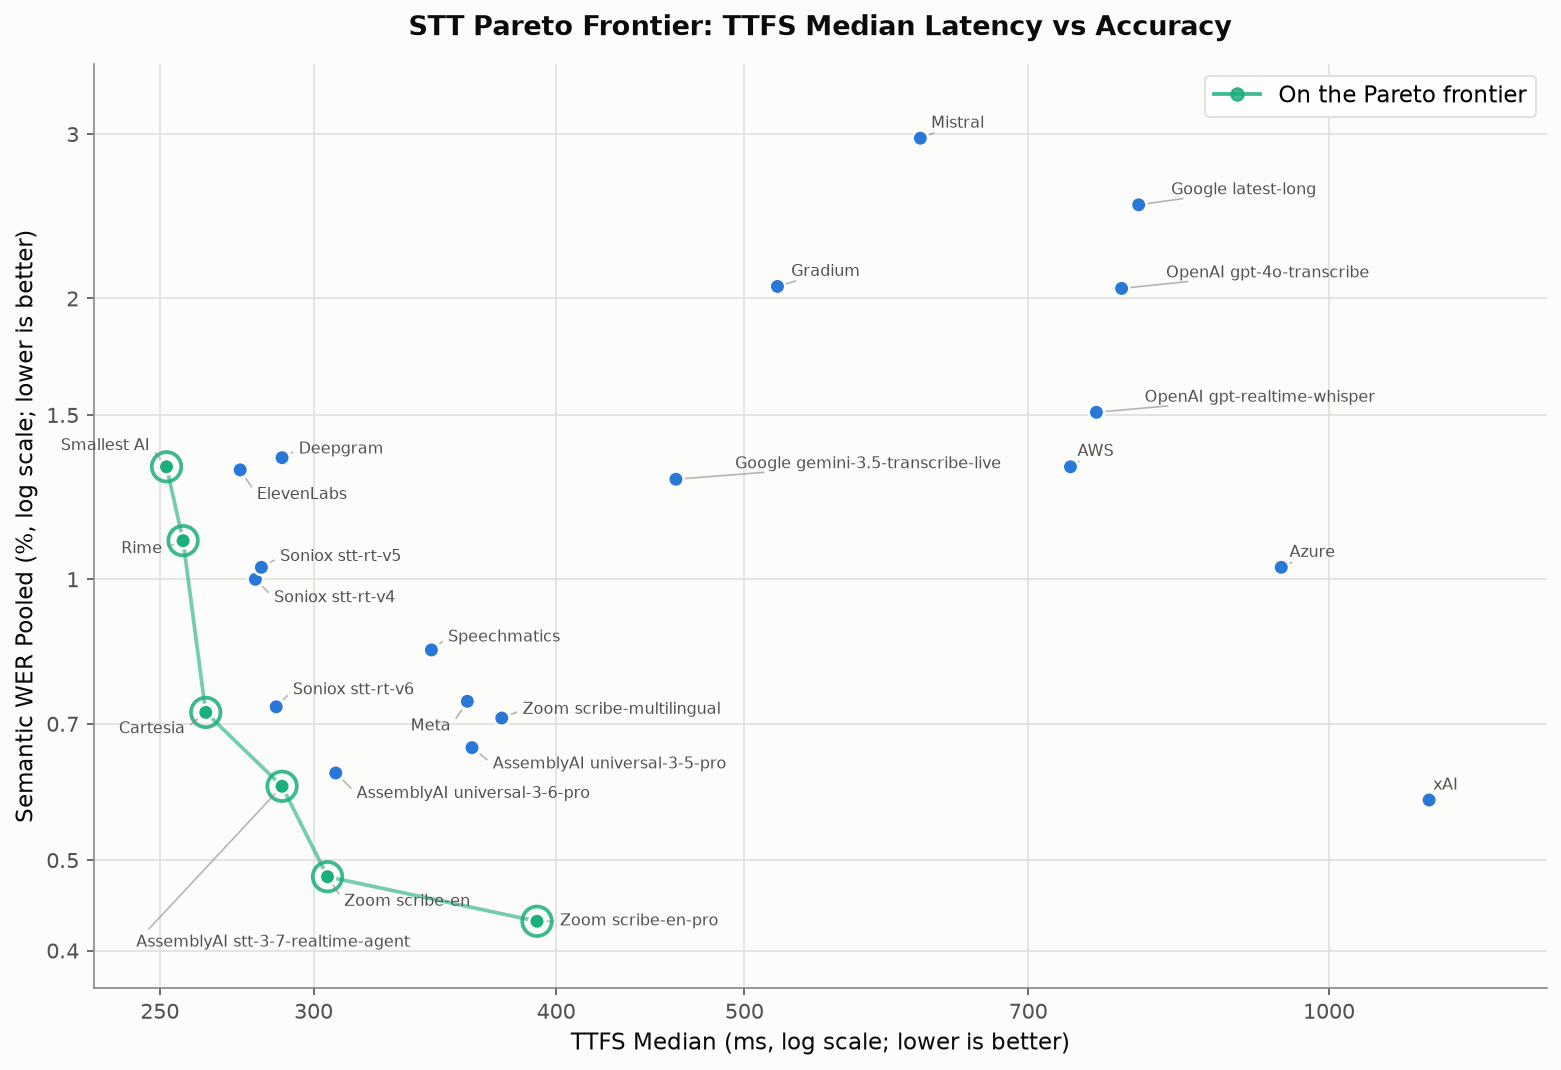
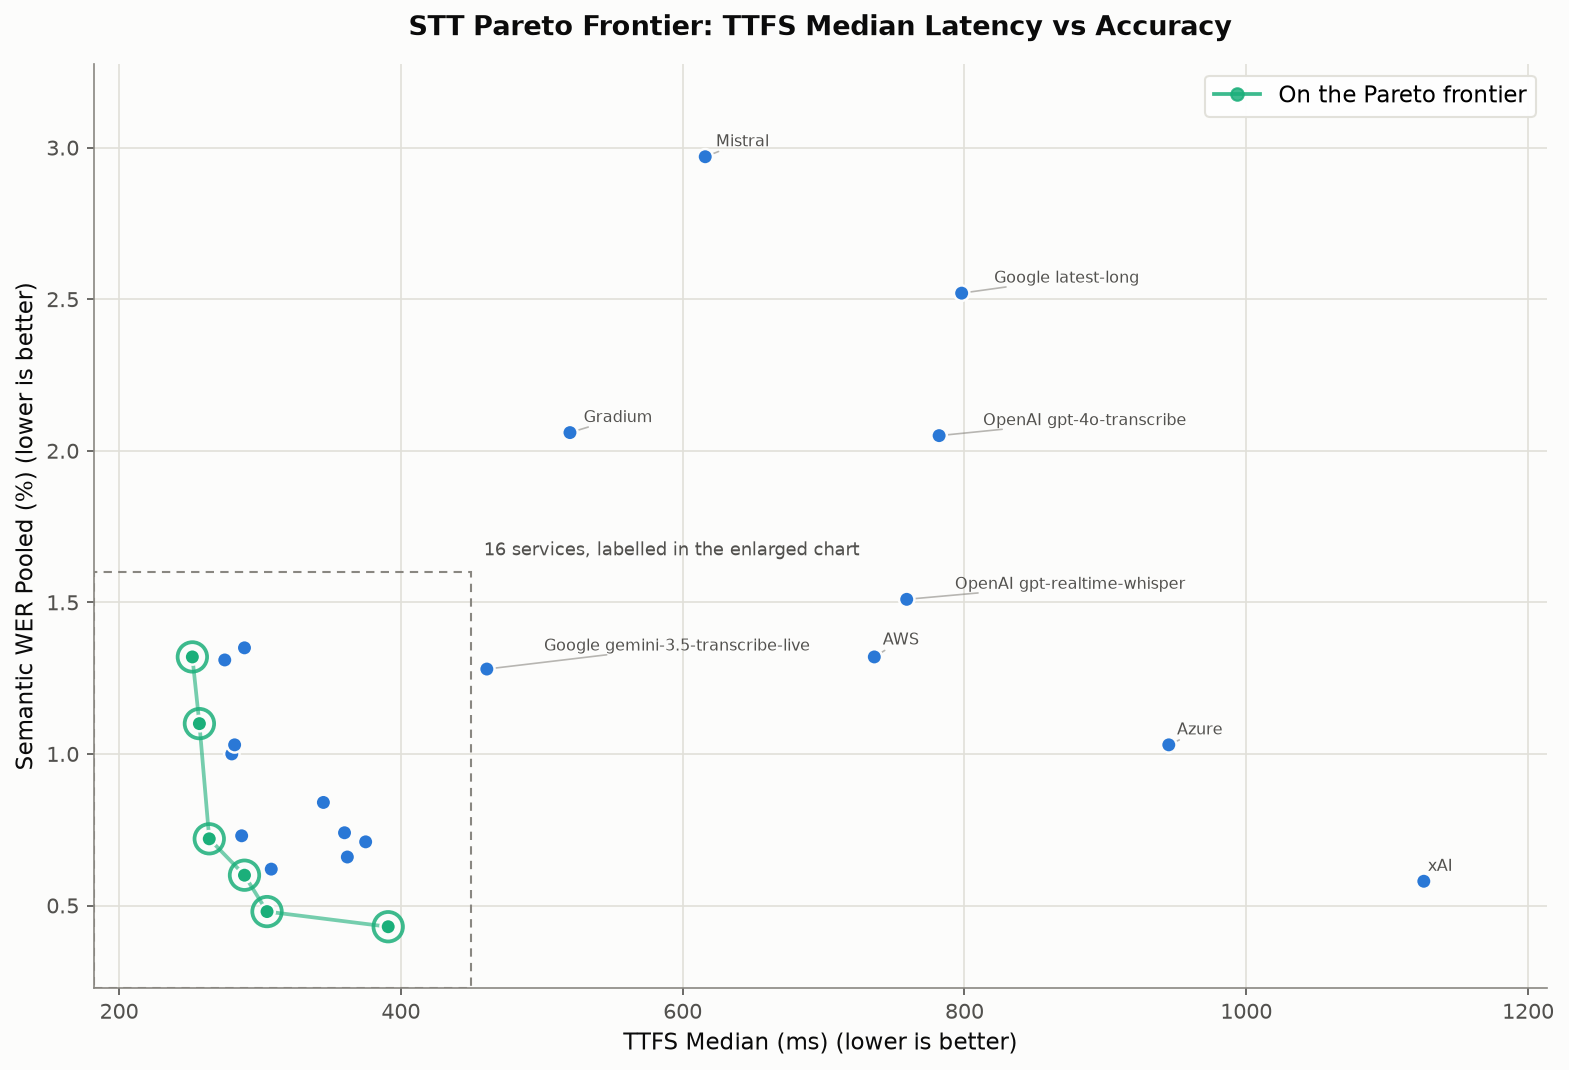
Go back to linear axes, with a second chart enlarging the busy corner
Log axes are harder to read. The median chart keeps linear axes and
every service, outlines the fast, accurate corner and leaves it
unlabelled; a second chart enlarges that corner, where 16 of the 25
services sit.

diff --git a/scripts/pareto-frontier-plot.py b/scripts/pareto-frontier-plot.py
@@ -45,29 +45,18 @@ RANGE_P99 = "#86b6ef"
 # placement (adjustText). Override per-metric via the "label_offsets"
 # config key.
 DEFAULT_LABEL_OFFSETS = {
-    "median": {
-        "Smallest AI": (-8, 10, "right"),
-        "Rime": (-10, -4, "right"),
-        "Cartesia": (-10, -8, "right"),
-        "Deepgram": (8, 4, "left"),
-        "ElevenLabs": (8, -12, "left"),
-        "Soniox stt-rt-v4": (9, -9, "left"),
-        "Soniox stt-rt-v5": (9, 5, "left"),
-        "Soniox stt-rt-v6": (8, 8, "left"),
-        "AssemblyAI stt-3-7-realtime-agent": (-70, -75, "left"),
-        "AssemblyAI universal-3-5-pro": (10, -8, "left"),
-        "AssemblyAI universal-3-6-pro": (10, -10, "left"),
-        "Speechmatics": (8, 6, "left"),
-        "Meta": (-8, -12, "right"),
-        "Zoom scribe-en": (8, -12, "left"),
-        "Zoom scribe-en-pro": (11, 0, "left"),
-        "Zoom scribe-multilingual": (10, 4, "left"),
+    "median": {},
+    "median_corner": {
+        "AssemblyAI stt-3-7-realtime-agent": (-9, -12, "right"),
+        "Zoom scribe-en-pro": (-9, 12, "right"),
     },
 }
 
-# Round values the log axes may label; the ones inside a chart's limits are used.
-LATENCY_TICKS = (100, 150, 200, 250, 300, 400, 500, 700, 1000, 1500, 2000, 3000, 5000)
-WER_TICKS = (0.1, 0.2, 0.3, 0.4, 0.5, 0.7, 1, 1.5, 2, 3, 5, 7, 10, 15, 20)
+# Most services sit in the fast, accurate corner, where their labels would
+# overlap on a chart that also has to fit the slowest and least accurate. The
+# median chart leaves that corner unlabelled and a second chart enlarges it:
+# services at or under this median TTFS (ms) and pooled WER (%).
+DEFAULT_CORNER = (450, 1.6)
 
 
 def find_pareto_optimal(names: list, ttfb_values: list, wer_values: list) -> list:
@@ -93,13 +82,20 @@ def plot_pareto_frontier(
     output_path: str = "stt_pareto_frontier.png",
     show: bool = False,
     label_offsets: dict | None = None,
+    corner: tuple[float, float] | None = None,
+    corner_only: bool = False,
 ):
-    """Generate the TTFS vs WER scatter plot with the Pareto frontier highlighted."""
+    """Generate the TTFS vs WER scatter plot with the Pareto frontier highlighted.
+
+    ``corner`` is a (TTFS ms, WER %) limit. With ``corner_only`` the chart shows
+    just the services inside it, enlarged. Without, it shows every service,
+    outlines the corner and leaves the services inside it unlabelled.
+    """
     try:
         import matplotlib.pyplot as plt
         from adjustText import adjust_text
         from matplotlib.lines import Line2D
-        from matplotlib.ticker import FixedLocator, FuncFormatter, NullLocator
+        from matplotlib.patches import Rectangle
     except ImportError as e:
         if "adjustText" in str(e):
             print("adjustText is required for plotting. Install with: uv add adjustText")
@@ -111,12 +107,33 @@ def plot_pareto_frontier(
     ttfb_key = metric_info["key"]
     ttfb_label = metric_info["label"]
     if label_offsets is None:
-        label_offsets = DEFAULT_LABEL_OFFSETS.get(latency_metric, {})
+        key = f"{latency_metric}_corner" if corner_only else latency_metric
+        label_offsets = DEFAULT_LABEL_OFFSETS.get(key, {})
 
-    names = list(data)
+    def in_corner(name: str) -> bool:
+        return (
+            corner is not None
+            and data[name][ttfb_key] <= corner[0]
+            and data[name]["pooled_wer"] <= corner[1]
+        )
+
+    # The frontier is always worked out over every service, so a service is
+    # on it in the enlarged chart only if it is on it overall.
+    everyone = list(data)
+    pareto_optimal = find_pareto_optimal(
+        everyone,
+        [data[n][ttfb_key] for n in everyone],
+        [data[n]["pooled_wer"] for n in everyone],
+    )
+    names = [n for n in everyone if in_corner(n)] if corner_only else everyone
+    if not names:
+        print("No services inside the corner. Nothing to plot.")
+        return
     ttfb_values = [data[n][ttfb_key] for n in names]
     wer_values = [data[n]["pooled_wer"] for n in names]
-    pareto_optimal = find_pareto_optimal(names, ttfb_values, wer_values)
+    if corner_only:
+        pareto_optimal = [p for p in pareto_optimal if in_corner(p[0])]
+    unlabelled = {n for n in names if in_corner(n)} if corner and not corner_only else set()
 
     fig, ax = plt.subplots(figsize=(12.5, 8), dpi=150)
     fig.patch.set_facecolor(SURFACE)
@@ -183,6 +200,8 @@ def plot_pareto_frontier(
     leader_line = {"arrowstyle": "-", "color": MUTED, "alpha": 0.6, "lw": 0.8}
     texts = []
     for name, ttfb, wer in zip(names, ttfb_values, wer_values, strict=False):
+        if name in unlabelled:
+            continue
         if name in label_offsets:
             dx, dy, ha = label_offsets[name]
             ax.annotate(
@@ -206,23 +225,39 @@ def plot_pareto_frontier(
         else:
             texts.append(ax.text(ttfb, wer, name, fontsize=7.5, color=INK_2, zorder=6))
 
-    # Log axes: most services sit in one corner, and a gap of 30 ms or 0.2
-    # points matters more there than among the slow or inaccurate ones.
-    # Limits pad around the data by a ratio, and the ticks are round values
-    # labelled in plain numbers.
-    ax.set_xscale("log")
-    ax.set_yscale("log")
-    x_low, x_high = min(ttfb_values) / 1.09, max(ttfb_values) * 1.15
-    y_low, y_high = min(wer_values) / 1.18, max(wer_values) * 1.2
-    ax.set_xlim(x_low, x_high)
-    ax.set_ylim(y_low, y_high)
-    for axis, ticks, low, high in (
-        (ax.xaxis, LATENCY_TICKS, x_low, x_high),
-        (ax.yaxis, WER_TICKS, y_low, y_high),
-    ):
-        axis.set_major_locator(FixedLocator([t for t in ticks if low <= t <= high]))
-        axis.set_minor_locator(NullLocator())
-        axis.set_major_formatter(FuncFormatter(lambda value, _: f"{value:g}"))
+    # Axis limits: pad around the data instead of forcing a zero origin,
+    # so dense regions keep their resolution.
+    x_range = max(ttfb_values) - min(ttfb_values) or max(ttfb_values) * 0.2 or 1
+    y_range = max(wer_values) - min(wer_values) or max(wer_values) * 0.2 or 1
+    x_low = min(ttfb_values) - 0.08 * x_range
+    y_low = min(wer_values) - 0.08 * y_range
+    ax.set_xlim(x_low, max(ttfb_values) + 0.10 * x_range)
+    ax.set_ylim(y_low, max(wer_values) + 0.12 * y_range)
+
+    # Outline the corner the enlarged chart covers, and say where its labels are.
+    if unlabelled:
+        ax.add_patch(
+            Rectangle(
+                (x_low, y_low),
+                corner[0] - x_low,
+                corner[1] - y_low,
+                fill=False,
+                edgecolor=MUTED,
+                linestyle=(0, (4, 3)),
+                linewidth=1,
+                zorder=2,
+            )
+        )
+        ax.annotate(
+            f"{len(unlabelled)} services, labelled in the enlarged chart",
+            (corner[0], corner[1]),
+            xytext=(6, 6),
+            textcoords="offset points",
+            ha="left",
+            va="bottom",
+            fontsize=8.5,
+            color=INK_2,
+        )
 
     # Recessive chrome: hairline grid, no top/right spines, muted ticks.
     ax.grid(True, color=GRID, linewidth=0.8, zorder=0)
@@ -233,10 +268,13 @@ def plot_pareto_frontier(
         ax.spines[side].set_color(MUTED)
     ax.tick_params(colors=INK_2, labelsize=10)
 
-    ax.set_xlabel(f"{ttfb_label} (ms, log scale; lower is better)", fontsize=11, color=INK)
-    ax.set_ylabel("Semantic WER Pooled (%, log scale; lower is better)", fontsize=11, color=INK)
+    ax.set_xlabel(f"{ttfb_label} (ms) (lower is better)", fontsize=11, color=INK)
+    ax.set_ylabel("Semantic WER Pooled (%) (lower is better)", fontsize=11, color=INK)
+    title = f"STT Pareto Frontier: {ttfb_label} Latency vs Accuracy"
+    if corner_only:
+        title += f"\nServices at or under {corner[0]:g} ms and {corner[1]:g}% WER"
     ax.set_title(
-        f"STT Pareto Frontier: {ttfb_label} Latency vs Accuracy",
+        title,
         fontsize=13,
         fontweight="bold",
         color=INK,
@@ -595,6 +633,27 @@ def main():
     services = args.services or file_config.get("services", None)
     display_names = file_config.get("display_names", {})
     label_offsets_cfg = file_config.get("label_offsets", {})
+    corner = file_config.get("corner", DEFAULT_CORNER)
+    corner = tuple(corner) if corner else None
+
+    def render_pareto(metric: str, plot_output: Path) -> None:
+        """Draw one metric's chart, and for the median the enlarged corner beside it."""
+        # The corner is defined on the median, so only that chart has one.
+        metric_corner = corner if metric == "median" else None
+        plot_pareto_frontier(
+            data, metric, str(plot_output), show, label_offsets_cfg.get(metric), metric_corner
+        )
+        if metric_corner:
+            plot_pareto_frontier(
+                data,
+                metric,
+                str(plot_output.with_name(f"{plot_output.stem}_corner{plot_output.suffix}")),
+                show,
+                label_offsets_cfg.get(f"{metric}_corner"),
+                metric_corner,
+                corner_only=True,
+            )
+
     show = args.show if args.show is not None else file_config.get("show", False)
 
     # The README results table is the single source of truth for the published
@@ -657,9 +716,7 @@ def main():
                 suffix = LATENCY_METRICS[metric]["suffix"]
                 plot_output = output_path / f"{default_basename}{suffix}.png"
                 print(f"\nGenerating {LATENCY_METRICS[metric]['label']} plot...")
-                plot_pareto_frontier(
-                    data, metric, str(plot_output), show, label_offsets_cfg.get(metric)
-                )
+                render_pareto(metric, Path(plot_output))
         else:
             for metric in metrics_to_plot:
                 suffix = LATENCY_METRICS[metric]["suffix"]
@@ -670,9 +727,7 @@ def main():
                 else:
                     plot_output = output_path
                 print(f"\nGenerating {LATENCY_METRICS[metric]['label']} plot...")
-                plot_pareto_frontier(
-                    data, metric, str(plot_output), show, label_offsets_cfg.get(metric)
-                )
+                render_pareto(metric, Path(plot_output))
 
     if "range" in charts:
         # The range chart has a fixed basename; with a file-path output it

diff --git a/scripts/snapshot_results.py b/scripts/snapshot_results.py
@@ -5,7 +5,7 @@ The README shows the latest results. This copies them into ``results/<label>/``:
 
     summary.csv            one row per service, the README table's numbers
     run.json               how the results were measured
-    stt_pareto_frontier.png, stt_latency_range.png
+    stt_pareto_frontier.png, stt_pareto_frontier_corner.png, stt_latency_range.png
 
 and rewrites ``results/history.csv``, which holds every snapshot's rows in one
 file. Run it after ``stt-benchmark update-readme`` and
@@ -50,7 +50,7 @@ COLUMNS = {
     "ttfs_p95_ms": "ttfb_p95",
     "ttfs_p99_ms": "ttfb_p99",
 }
-PLOTS = ("stt_pareto_frontier.png", "stt_latency_range.png")
+PLOTS = ("stt_pareto_frontier.png", "stt_pareto_frontier_corner.png", "stt_latency_range.png")
 
 
 def judge_label() -> str:

diff --git a/README.md b/README.md
@@ -68,11 +68,13 @@ Each service runs with the settings its Pipecat integration uses by default. Sev
 
 ![STT Service Pareto Frontier - Median](assets/stt_pareto_frontier.png)
 
-The Pareto frontier shows services that offer the best trade-off between latency and accuracy—no other service is better on both metrics. Services on the frontier represent efficient choices depending on your priorities. They are drawn in green and joined by a line; a blue point is not on the frontier, however close it sits to one that is.
+Most services sit in the fast, accurate corner, outlined above. The chart below enlarges it:
+
+![STT Service Pareto Frontier - Median, services at or under 450 ms and 1.6% WER](assets/stt_pareto_frontier_corner.png)
+
+The Pareto frontier shows services that offer the best trade-off between latency and accuracy—no other service is better on both metrics. Services on the frontier represent efficient choices depending on your priorities. They are drawn in green and joined by a line; a blue point is not on the frontier, however close it sits to one that is. The frontier is worked out over every service, so it is the same in both charts.
 
 Each point is a service's pooled WER. Points close together on either axis may not differ meaningfully; see the notes under the [results table](#results-summary).
-
-Both axes are logarithmic, so that the services in the fast, accurate corner can be told apart. Equal distances on the chart are equal ratios, not equal differences: read the values from the axis labels or the table.
 
 ### Latency Consistency
 
@@ -106,7 +108,7 @@ The table and charts above are the latest results. Each full run is also kept as
 |----------|----------|------|----------|
 | [2026-11](results/2026-11/) | 23–26 November 2026 | AWS `us-west-2` | 25 |
 
-Each snapshot folder holds `summary.csv` (the table's numbers), `run.json` (region, Pipecat version, benchmark commit, judge and caveats), and the two charts. [`results/history.csv`](results/history.csv) holds every snapshot's rows in one file. Compare snapshots with their `run.json` in hand: a change in region, Pipecat version or judge moves the numbers on its own.
+Each snapshot folder holds `summary.csv` (the table's numbers), `run.json` (region, Pipecat version, benchmark commit, judge and caveats), and the charts. [`results/history.csv`](results/history.csv) holds every snapshot's rows in one file. Compare snapshots with their `run.json` in hand: a change in region, Pipecat version or judge moves the numbers on its own.
 
 Results published before the first snapshot were measured over several months, from more than one location and with two judges, so they are not kept as a snapshot; they remain in the git history. Five rows from that table were not carried over: AssemblyAI universal-streaming-english, Cartesia ink-whisper and the earlier Speechmatics model have been superseded, and the two NVIDIA Nemotron models run locally and were not re-measured.
 

diff --git a/scripts/README.md b/scripts/README.md
@@ -2,7 +2,7 @@
 
 ## Pareto Frontier Plot
 
-`pareto-frontier-plot.py` generates the README's latency/accuracy charts: scatter plots of TTFS latency vs Semantic WER on log axes with a Pareto frontier overlay, and a per-service latency distribution (median/P95/P99) chart.
+`pareto-frontier-plot.py` generates the README's latency/accuracy charts: scatter plots of TTFS latency vs Semantic WER with a Pareto frontier overlay, and a per-service latency distribution (median/P95/P99) chart.
 
 ### Usage
 
@@ -59,13 +59,14 @@ A JSON file that stores plot settings for repeatable generation. See `plot-confi
 | `latency` | string or list | Latency metrics for the Pareto charts: `"p95"` or `["median", "p95"]` |
 | `output` | string | Output file path or directory |
 | `show` | boolean | Display the plot interactively |
+| `corner` | `[ms, %]` or `null` | The fast, accurate corner that the median chart outlines and leaves unlabelled, and that a second chart, `stt_pareto_frontier_corner.png`, enlarges: services at or under this median TTFS and pooled WER. Default `[450, 1.6]`; `null` draws one chart with every service labelled. Hand-placed labels for the enlarged chart go under `median_corner` in `label_offsets`. |
 | `label_offsets` | dict | Per-metric hand-placed label positions for dense regions, e.g. `{"median": {"Deepgram": [8, 2, "left"]}}` — `[dx, dy, alignment]` with offsets in points from the dot. Overrides the script's built-in defaults for that metric; labels not listed are placed automatically. |
 
 All keys are optional. Omitted keys fall back to defaults.
 
 ## Results Snapshot
 
-`snapshot_results.py` records the README's current results as a dated snapshot under `results/`, so results can be compared over time. Run it after `stt-benchmark update-readme` and `pareto-frontier-plot.py`. It writes `results/<label>/summary.csv`, `run.json` and copies of the two charts, and rebuilds `results/history.csv` from every snapshot. Running it again with the same label replaces that snapshot.
+`snapshot_results.py` records the README's current results as a dated snapshot under `results/`, so results can be compared over time. Run it after `stt-benchmark update-readme` and `pareto-frontier-plot.py`. It writes `results/<label>/summary.csv`, `run.json` and copies of the charts, and rebuilds `results/history.csv` from every snapshot. Running it again with the same label replaces that snapshot.
 
 ```bash
 uv run python scripts/snapshot_results.py 2026-11 \
